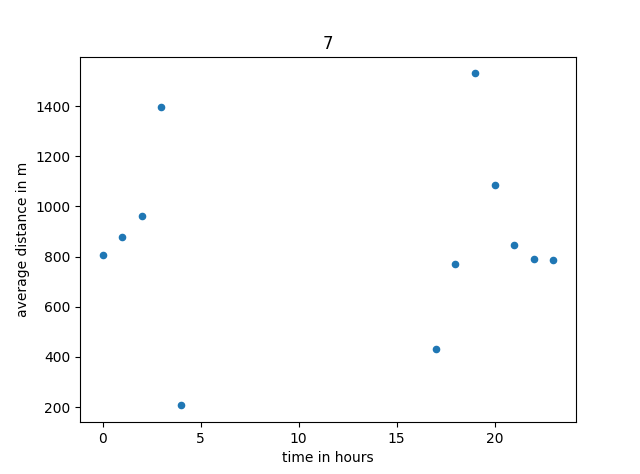
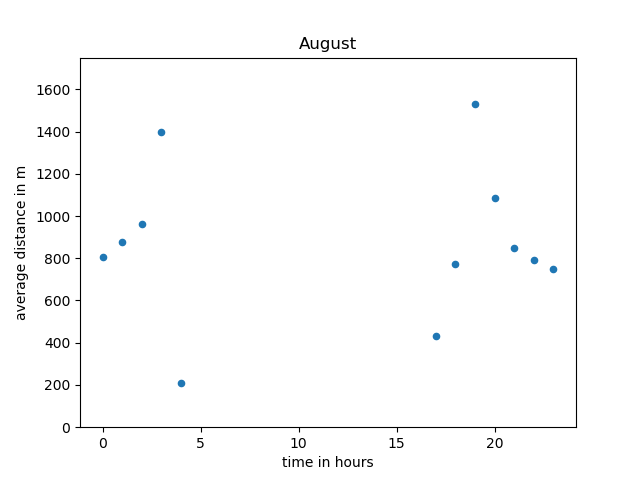
update plotting, delete unused code, create plots, add csv

diff --git a/main.py b/main.py
@@ -5,11 +5,11 @@ from postprocessing import *
 import os
 
 # dataPath = os.path.join('C:\\','Users','s_slim01','Downloads','movebank','movebank','eagle_owl','Eagle owl Reinhard Vohwinkel MPIO','points.shp')
-#dataPath = os.path.join('/home','torben','Documents','uni','Master','SS_2018','PyGIS','final_submission','movebank','eagle_owl','Eagle owl Reinhard Vohwinkel MPIO','points.shp')
+dataPath = os.path.join('/home','torben','Documents','uni','Master','SS_2018','PyGIS','final_submission','movebank','eagle_owl','Eagle owl Reinhard Vohwinkel MPIO','points.shp')
 # dataPath = os.path.join('C:\\', 'Users', 'hans-', \
 # 'Documents', 'Master', '2.Semester', 'PythonInGIS', \
 # 'FinalAssignment', 'data', 'movebank', 'movebank', 'eagle_owl', 'Eagle owl Reinhard Vohwinkel MPIO', 'points.shp')
-dataPath = os.path.join('C:\\', 'Users', 'pglah', 'Documents', 'movebank', 'movebank', 'eagle_owl', 'Eagle owl Reinhard Vohwinkel MPIO', 'points.shp')
+# dataPath = os.path.join('C:\\', 'Users', 'pglah', 'Documents', 'movebank', 'movebank', 'eagle_owl', 'Eagle owl Reinhard Vohwinkel MPIO', 'points.shp')
 
 shpData = openFile(dataPath,'ESRI Shapefile')
 owlIds = getOwlIDs(shpData)
@@ -19,10 +19,10 @@ averageDistanceAllOwlsMonth = []
 
 counter = 0
 for owl in owlIds:
-    # owl = owlIds[0]
     print()
     print('new owl')
-    if (owl != "3897"): # and counter < 1): (owl == "1750" or owl == "4846"): # 
+    if (owl != "3897"):
+    # if (owl == "4046"): # use to reduce processing time
         print(owl)
         singleOwl = owlDistanceAndTime(owl,shpData)
         #interval = 3600000 # 60 min => 1000 * 60 * 60 // 1000 = 1 sec
@@ -31,22 +31,15 @@ for owl in owlIds:
             distancePerHour = calcDistPerHour(singleOwl, month)
             xyzHour = distHour(distancePerHour)
             # plotAverages(xyz, owl)
-
             if (month == 0):
                 averageDistanceAllOwls.append((owl, xyzHour))
             else:
-                # print(month)
                 if ( len(averageDistanceAllOwlsMonth) < month ):
-                    # print('add')
                     averageDistanceAllOwlsMonth.append([])
-                # print(averageDistanceAllOwlsMonth)
                 averageDistanceAllOwlsMonth[month-1].append((owl, xyzHour))
-                # print(averageDistanceAllOwlsMonth)
-            
             month += 1
-
     else:
-        print('nix')
+        print('no data')
     counter += 1
 
 # print(averageDistanceAllOwls)
@@ -63,7 +56,8 @@ avgDistances = adjustEntryPosition(averageDistanceAllOwls)# average for each owl
 # plotAverages(xyzAll, 'OwlNightLong')
 hourBased = hourBasedAverageAllOwls(avgDistances)
 data = prepareXYDataForPlotting(hourBased)
-plotAverages(data, 'All Averages')
+plotAverages(data, 0)
+saveAsCSV(hourBased, 0)
 
 for idx, monthData in enumerate(averageDistanceAllOwlsMonth):
     avgDistancesMonth = adjustEntryPosition(monthData)# average for each owl
@@ -71,5 +65,5 @@ for idx, monthData in enumerate(averageDistanceAllOwlsMonth):
     # plotAverages(xyzAll, 'OwlNightLong')
     hourBasedMonth = hourBasedAverageAllOwls(avgDistancesMonth)
     dataMonth = prepareXYDataForPlotting(hourBasedMonth)
-    plotAverages(dataMonth, idx)
+    plotAverages(dataMonth, idx+1)
 

diff --git a/postprocessing.py b/postprocessing.py
@@ -2,31 +2,34 @@ from matplotlib import pyplot as plt
 import numpy as np
 
 def plotAverages(xyz, title):
-    f, plotDist = plt.subplots(1) # Create plot
+    plotTitle = getMonth(title)
 
-    # plotLabels = list(set(xyz[2]))
-    # if (xyz[3]):
-    #     plotLabels = xyz[3]
-    # else:
-    #     plotLabels = xyz[2]
+    # check if data is available for plotting
+    if (len(xyz[0]) > 0 and len(xyz[1]) > 0):
+        f, plotDist = plt.subplots(1) # Create plot
 
-    # plotDist.plot(xyz[0], xyz[1], label=plotLabels)
-    # plotDist.plot(xyz[0], xyz[1], label=plotLabels)
-    print()
-    print(xyz[0])
-    print(xyz[1])
-    plotDist.scatter(xyz[0], xyz[1], label=xyz[1], cmap='gnuplot', s=20)
-    # plotDist.scatter(xyz[0], xyz[1], c=coloring, label=plotLabels, cmap='gnuplot', s=20)
-    # plotDist.plot(xyz[0], xyz[1])
+        plotDist.scatter(xyz[0], xyz[1], label=xyz[1], cmap='gnuplot', s=20)
+        # plotDist.scatter(xyz[0], xyz[1], c=coloring, label=plotLabels, cmap='gnuplot', s=20)
+        plt.title(plotTitle)
+        plt.xlabel('time in hours')
+        plt.ylabel('average distance in m')
+        plt.ylim(0, 1750)
 
-   # plotDist.legend('Distance of ' + title + ' in m per hour')
+        # save plot as .png and show
+        plt.savefig('./plots/' + plotTitle + '.png')
+        print('Saved ' + plotTitle + ' as .png to plots-folder.')
+        # plt.show()
+    else:
+        print('No data available')
 
-    plt.title(title)
-    plt.xlabel('time in hours')
-    plt.ylabel('average distance in m')
-    # plotDist.legend()
-    # plt.axis('equal')
-    plt.show()
+def saveAsCSV(data, title):
+    fileTitle = getMonth(title)
+    np.savetxt('./csv/' + fileTitle + '.csv', data, delimiter=',', header="Hour,# Average Distance")
+    print('Saved ' + fileTitle + ' as .csv to csv-folder.')
+
+def getMonth(title):
+    month = ['All Owls', 'January', 'February', 'March', 'April', 'May', 'June', 'July', 'August', 'September', 'October', 'November', 'December']
+    return month[title]
 
 #unused
 def prepareXYZDataForPlotting(array):

diff --git a/processingData.py b/processingData.py
@@ -16,7 +16,6 @@ def calcDistPerHour(owl, month):
         data = list(filter(lambda x: datetime.strptime(x[0], '%Y-%m-%d %H:%M:%S').month == month , owl))
     else:
         data = owl
-        print('new dataset')
 
     for entry in data:
         # time string: '2014-09-04 23:50:16'
@@ -26,9 +25,6 @@ def calcDistPerHour(owl, month):
             firstDate = currentDate
         else:
             if(currentHour != lastDate.hour):
-                # average = distance # /measInHour
-                if (distance > 10000):
-                    print(distance)
                 distanceArray.append((distance, measInHour, firstDate, lastDate))
                 distance = 0
                 measInHour = 0
@@ -38,12 +34,7 @@ def calcDistPerHour(owl, month):
         distance = distance + entry[1]
         lastDate = currentDate
 
-    # print()
-    # print('timebasedAvg')
-    # print(distanceArray)
     return distanceArray
-
-    # for each intervaltime tuple(avgOfDistance, amountOfValues)
     # return [(interval01, avg), (interval02, avg), ...]
 
 def adjustEntryPosition(owlArray):
@@ -80,7 +71,6 @@ def hourBasedAverageAllOwls(array):
         currentHour = entry[0]
 
         if( (lastHour != -1 and currentHour != lastHour) or (idx == len(arraySorted)-1) ):
-            # print(currentHour)
             average = distance/amountOwls
             distPerHour.append((lastHour, average))
             distance = 0
@@ -93,8 +83,8 @@ def hourBasedAverageAllOwls(array):
     return distPerHour
     # [ (hour, averageDistance), ... ]
 
-# [ (y,z,x), (y,z,x), ... ]
 def distHour(array):
+    # array => [ (y,z,x), (y,z,x), ... ]
     x = []
     y = []
     z = []

diff --git a/preprocessing.py b/preprocessing.py
@@ -26,8 +26,6 @@ def getOwlIDs(data):
     while feature:
         IDvalues.append(feature.GetFieldAsString("tag_ident"))
         feature = owlLayer.GetNextFeature()
-    
-
     return list(set(IDvalues))
 
 
@@ -51,12 +49,10 @@ def owlDistanceAndTime(owlID, data):
             # current feature
             lat2 = feature.GetFieldAsDouble('lat')
             lon2 = feature.GetFieldAsDouble('long')
-
+            # distance
             distance = calcDistance((lat1, lon1), (lat2, lon2))
 
         timeValues.append((timestamp, distance))
-
-        # if (owlTableId == owlID):
         counter += 1
         oldFeature = feature
         feature = owlLayer.GetNextFeature()
